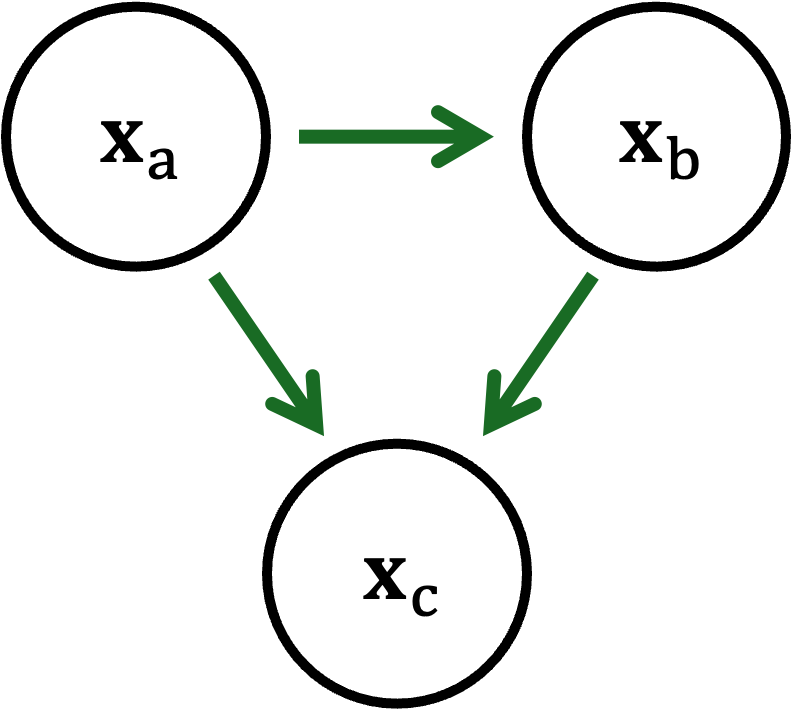
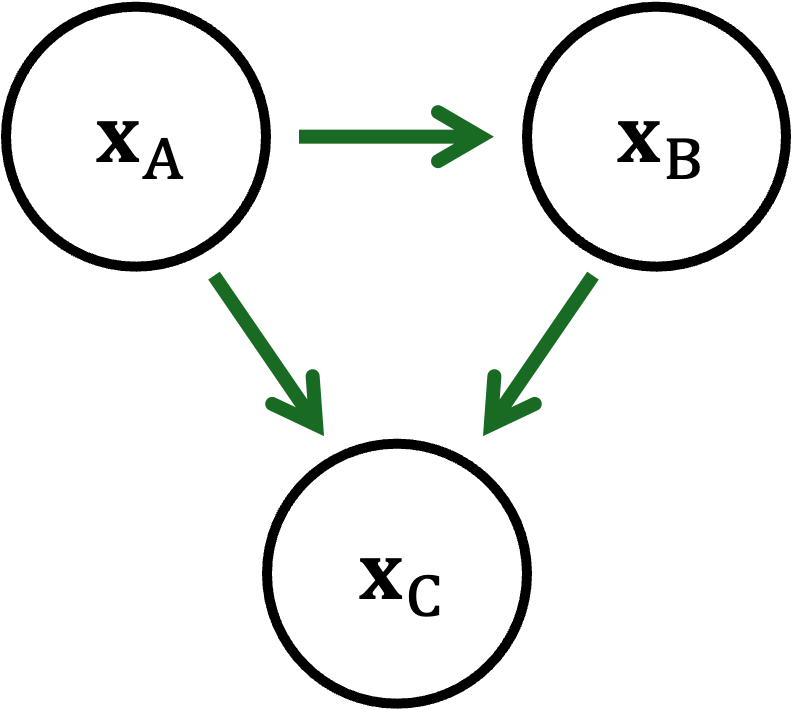
Refreshed appearance

Changed region(s): [[0.1212, 0.1549, 0.2424, 0.2789], [0.4545, 0.7746, 0.5758, 0.8676], [0.7879, 0.1549, 0.8788, 0.2479]]

diff --git a/docs/index.html b/docs/index.html
@@ -30,8 +30,13 @@
         .stats h3 { margin: 0 0 10px 0; font-size: 14px; }
         .stat-item { margin-bottom: 10px; padding-bottom: 8px; border-bottom: 1px solid #eee; }
         .stat-item:last-child { border-bottom: none; }
-        .stat-label { font-size: 11px; color: #666; }
+        .stat-label { font-size: 14px; color: #666; }
         .stat-value { font-size: 14px; font-weight: bold; color: #333; }
+        .right-pane { display: flex; flex-direction: column; gap: 15px; }
+        .diagram { background: white; padding: 12px; border-radius: 8px; text-align: center; }
+        .diagram img { width: 100%; max-width: 200px; height: auto; }
+        .equations { background: white; padding: 12px; border-radius: 8px; font-size: 14px; line-height: 1.8; }
+        .equations div { margin-bottom: 8px; }
         .loading { text-align: center; padding: 40px; font-size: 18px; }
     </style>
 </head>
@@ -42,11 +47,11 @@
         <div class="main-container">
             <div class="controls">
                 <div class="control-group">
-                    <label>θ<sub>a</sub>: <span class="slider-value" id="val_theta_a">0.50</span></label>
+                    <label>θ<sub>A</sub>: <span class="slider-value" id="val_theta_a">0.50</span></label>
                     <input type="range" id="theta_a" min="-1" max="1" step="0.01" value="0.5">
                 </div>
                 <div class="control-group">
-                    <label>θ<sub>b</sub>: <span class="slider-value" id="val_theta_b">0.40</span></label>
+                    <label>θ<sub>B</sub>: <span class="slider-value" id="val_theta_b">0.40</span></label>
                     <input type="range" id="theta_b" min="-1" max="1" step="0.01" value="0.4">
                 </div>
                 <div class="control-group">
@@ -84,12 +89,21 @@
                 <div id="plot"></div>
             </div>
             
-            <div class="stats">
-                <h3>Statistics</h3>
-                <div class="stat-item"><div class="stat-label">T (%)</div><div class="stat-value" id="stat_T">-</div></div>
-                <div class="stat-item"><div class="stat-label">U (%)</div><div class="stat-value" id="stat_U">-</div></div>
-                <div class="stat-item"><div class="stat-label">Ind (%)</div><div class="stat-value" id="stat_INT">-</div></div>
-                <div class="stat-item"><div class="stat-label">Ad (%)</div><div class="stat-value" id="stat_Ad">-</div></div>
+            <div class="right-pane">
+                <div class="stats">
+                    <h3>Contributions</h3>
+                    <div class="stat-item"><div class="stat-label">T<sub>A→C</sub></div><div class="stat-value" id="stat_T">-</div></div>
+                    <div class="stat-item"><div class="stat-label">U<sub>A→C</sub></div><div class="stat-value" id="stat_U">-</div></div>
+                    <div class="stat-item"><div class="stat-label">Ind<sub>A(B)→C</sub></div><div class="stat-value" id="stat_INT">-</div></div>
+                    <div class="stat-item"><div class="stat-label">Ad<sub>A(B)→C</sub></div><div class="stat-value" id="stat_Ad">-</div></div>
+                </div>
+                <div class="diagram">
+                    <img src="img/DAG.png" alt="Directed Acyclic Graph">
+                </div>
+                <div class="equations">
+                    <div>x<sub>C</sub> = x<sub>A</sub> θ<sub>A</sub> + x<sub>B</sub> θ<sub>B</sub> + e</div>
+                    <div>x<sub>B</sub> = x<sub>A</sub> γ + f</div>
+                </div>
             </div>
         </div>
     </div>
@@ -183,9 +197,9 @@ def plot_arrows_data(theta_a=0.5, theta_b=0.4, gamma=0.3, regression=False, orth
     xc_hat_length = min(xc_hat_length, 2.0)
     
     arrows = []
-    arrows.append({'x': [0.0, 1.0], 'y': [0.0, 0.0], 'color': 'blue', 'name': 'x<sub>a</sub>', 'width': 3})
-    arrows.append({'x': [0.0, float(np.cos(angle))], 'y': [0.0, float(np.sin(angle))], 'color': 'purple', 'name': 'x<sub>b</sub>', 'width': 3})
-    arrows.append({'x': [0.0, float(np.cos(sig1 * anglec) * xc_hat_length)], 'y': [0.0, float(np.sin(sig1 * anglec) * xc_hat_length)], 'color': 'green', 'name': 'x&#770;<sub>c</sub>', 'width': 3})
+    arrows.append({'x': [0.0, 1.0], 'y': [0.0, 0.0], 'color': 'blue', 'name': 'x<sub>A</sub>', 'width': 3})
+    arrows.append({'x': [0.0, float(np.cos(angle))], 'y': [0.0, float(np.sin(angle))], 'color': 'purple', 'name': 'x<sub>B</sub>', 'width': 3})
+    arrows.append({'x': [0.0, float(np.cos(sig1 * anglec) * xc_hat_length)], 'y': [0.0, float(np.sin(sig1 * anglec) * xc_hat_length)], 'color': 'green', 'name': 'x&#770;<sub>C</sub>', 'width': 3})
     
     if regression:
         arrows.append({'x': [0.0, float(theta_a)], 'y': [0.0, 0.0], 'color': 'blue', 'name': '', 'width': 1.5, 'dash': 'dash', 'opacity': 0.3})
@@ -426,7 +440,7 @@ def plot_arrows_data(theta_a=0.5, theta_b=0.4, gamma=0.3, regression=False, orth
                     xaxis: { range: [-1.5, 1.5], scaleanchor: 'y', scaleratio: 1 }, 
                     yaxis: { range: [-1.2, 1.2], scaleanchor: 'x', scaleratio: 1 }, 
                     height: 500,
-                    legend: { x: 0.02, y: 0.98 }
+                    legend: { x: 0.02, y: 0.98, font: { size: 14 } }
                 };
                 Plotly.newPlot('plot', traces, layout, { responsive: true });
 
